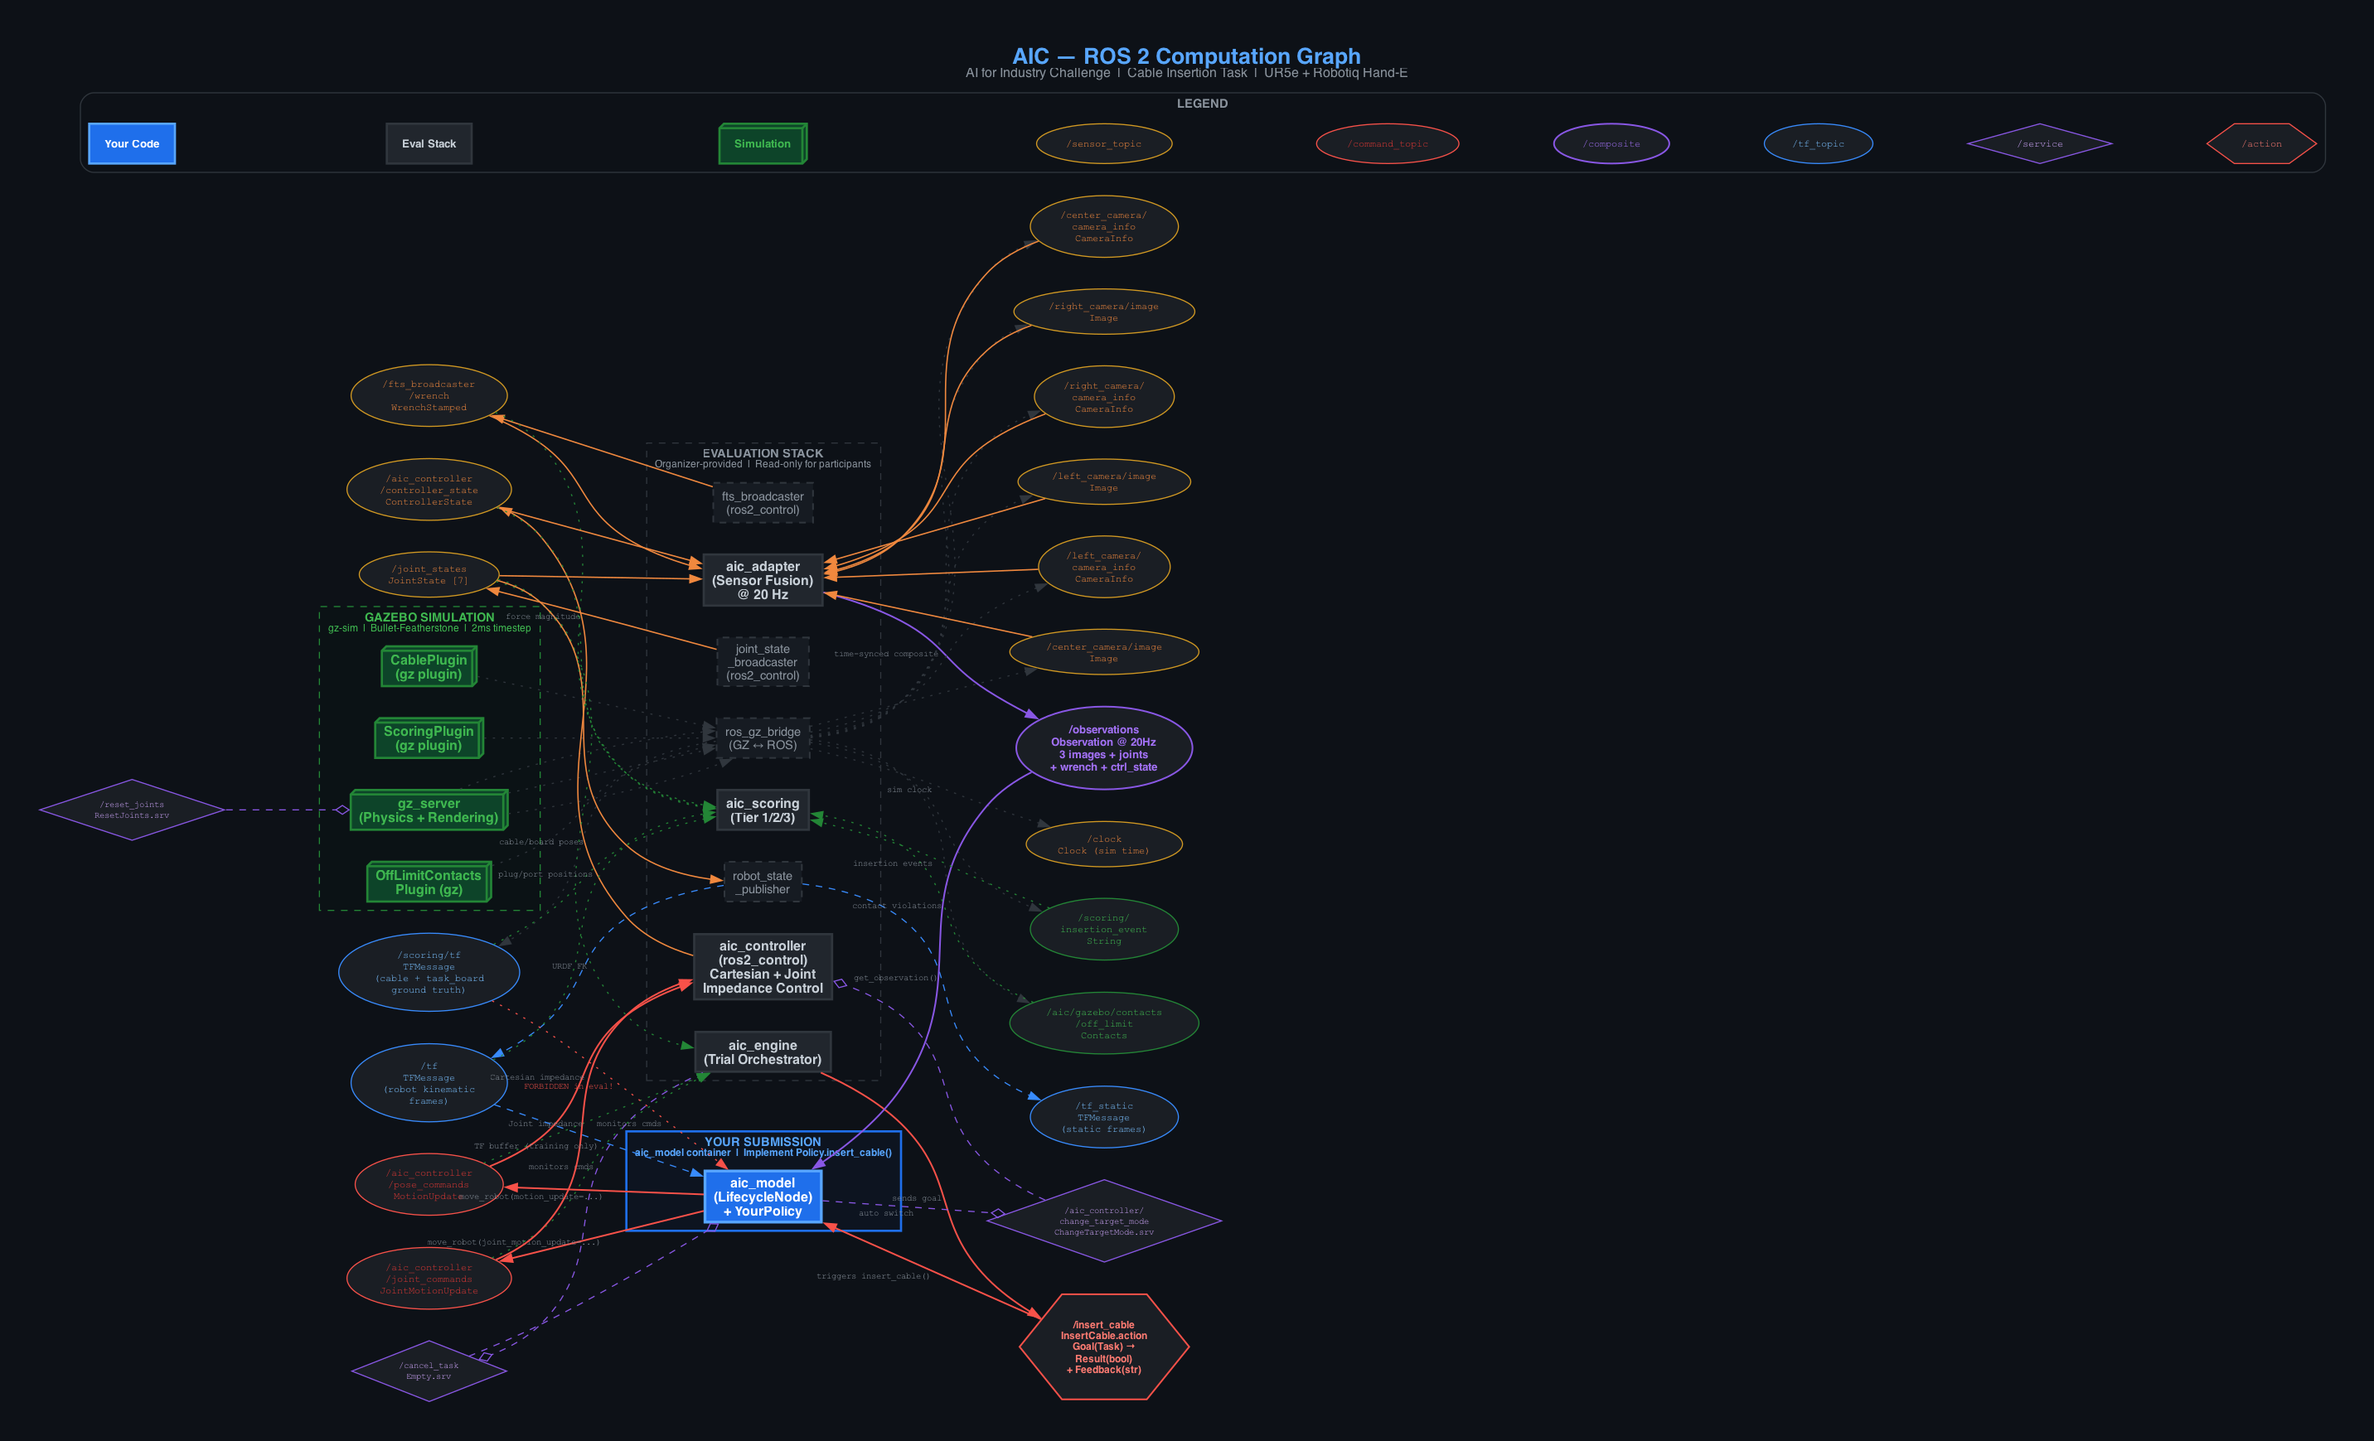
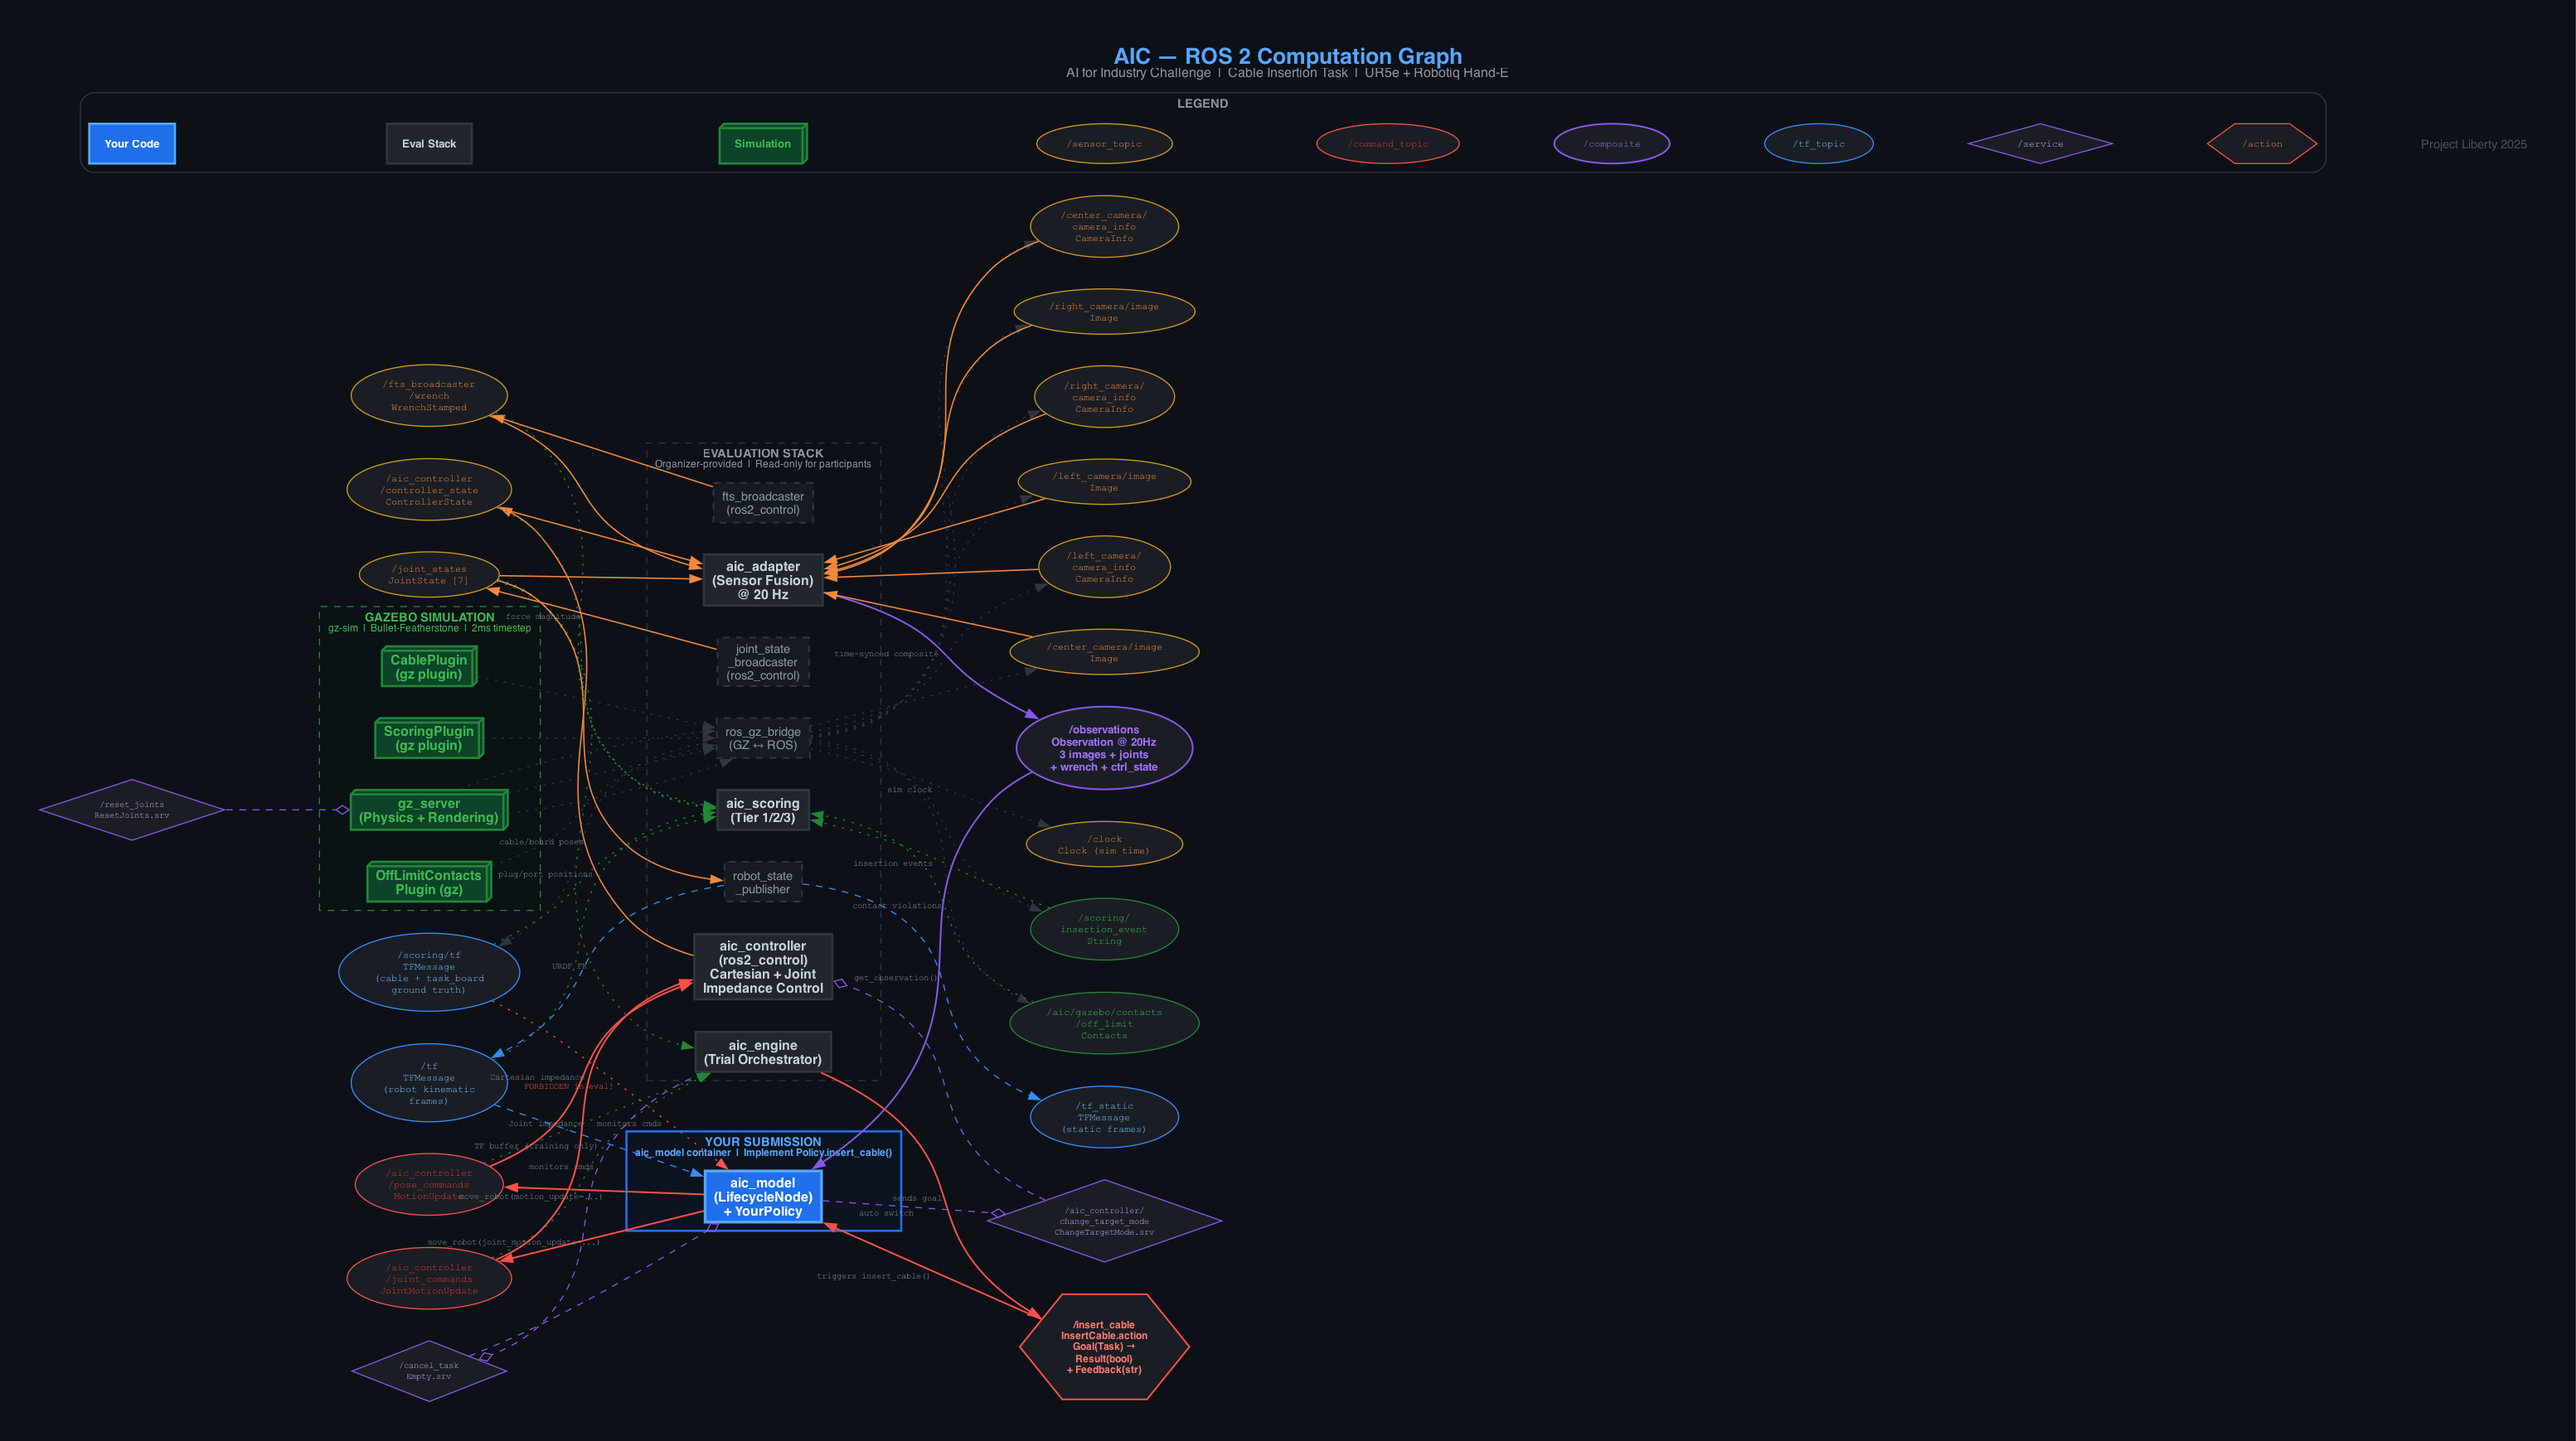
init sector 5 - nocturne

diff --git a/Intrinsic-AI/aic_ros2_graph.py b/Intrinsic-AI/aic_ros2_graph.py
@@ -354,6 +354,18 @@ def create_aic_graph():
         lg.edge("leg_topic_tf", "leg_svc", style="invis")
         lg.edge("leg_svc", "leg_action", style="invis")
 
+    # ================================================================
+    #  WATERMARK: Bottom-right
+    # ================================================================
+    dot.node(
+        "watermark",
+        "<<FONT POINT-SIZE='11' COLOR='#484f58'>"
+        "Project Liberty 2025</FONT>>",
+        shape="plaintext", fontname="Helvetica",
+    )
+    # Pin it below everything via invisible edges from the legend
+    dot.edge("leg_action", "watermark", style="invis")
+
     return dot
 
 
